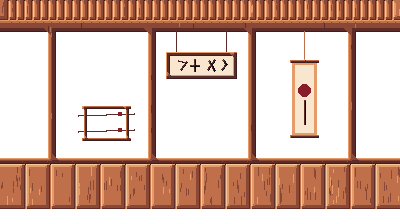
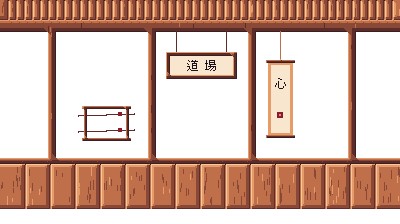
Dive into a ground-level pond from a tall last roof; dojo signs with real characters
Claude-Session: https://claude.ai/code/session_0114fZk9r84XsbnoNJLbsP6i

Changed region(s): [[0.66, 0.25, 0.81, 0.625], [0.45, 0.25, 0.57, 0.3125]]

diff --git a/index.html b/index.html
@@ -1167,7 +1167,7 @@ kbd { font-family: var(--body); background: var(--panel); padding: 1px 6px; bord
       { k: 'dummy', x: 600, w: 60, h: 110 }, { k: 'dummy', x: 880, w: 60, h: 110 }, { k: 'dummy', x: 1140, w: 60, h: 110 }] },
     // Everything below is a rough first pass of the remaining sections (rules are placeholders to be revised).
     { name: 'ROOFTOP CLIMB', wall: ['#181425', '#262b44', '#181425'], floor: ['#3a4466', '#262b44'], ...buildClimb(28) },
-    { name: 'LAKE DIVE', sec: 'lake-dive', scene: 'dive', hill: [[0, 420], [330, 420], [334, 0], [1600, 0]], water: { x0: 334, top: 260 }, props: [
+    { name: 'LAKE DIVE', sec: 'lake-dive', scene: 'dive', hill: [[0, 560], [330, 560], [334, 0], [1600, 0]], water: { x0: 334, top: 200 }, props: [
       { k: 'rock', x: 760, w: 150, h: 120 }, { k: 'rock', x: 1220, w: 170, h: 170 }] },
     { name: 'TOWER LIFT', sec: 'space', music: 'elevator', scene: 'lift', ride: 14, props: [
       { k: 'crate', x: 380, w: 110, h: 120, hp: 2 }, { k: 'crate', x: 800, w: 130, h: 150, hp: 3 }, { k: 'crate', x: 1220, w: 110, h: 120, hp: 2 }] },
@@ -1376,7 +1376,7 @@ kbd { font-family: var(--body); background: var(--panel); padding: 1px 6px; bord
     house: { table: [128, 64, 'table'], desk: [128, 64, 'table'], side: [64, 64, 'crate'], box: [64, 64, 'crate'], crate: [64, 64, 'crate'], tv: [128, 128, 'shelf'], wardrobe: [128, 128, 'shelf'], fridge: [64, 128, 'fridge'], bed: [192, 56, 'bed'], counter: [192, 96, 'sofa'] },
     dojo: { box: [64, 64, 'crate'], dummy: [56, 136, 'dummy'] }, bamboo: { shroom: [64, 48, 'shroom'], hedge: [160, 72, 'hedge'], pot: [64, 56, 'pot'] }, volcano: { rock: [96, 64, 'rock'], slab: [96, 0, 'slab'] }, space: { pod: [80, 112, 'pod'] }
   };
-  function fitProps(list) { for (const rm of list) { const F = !rm.climb && rm.scene !== 'lift' && FIT[rm.outdoor ? 'bamboo' : SEC_ART[rm.sec || 'house']]; if (F) for (const p of rm.props || []) { const f = F[p.k]; if (f && !p.hh) { p.w = f[0]; if (f[1]) p.h = f[1]; } } } }
+  function fitProps(list) { for (const rm of list) { if (rm.scene === 'dive') { rm.hill = [[0, 560], [330, 560], [334, 0], [1600, 0]]; rm.water = { x0: 334, top: 200 }; for (const p of rm.props || []) if (!p.plat && p.h > 88) p.h = 88; } /* the pond lies at ground level, below a tall last roof (Daniel) */ const F = !rm.climb && rm.scene !== 'lift' && FIT[rm.outdoor ? 'bamboo' : SEC_ART[rm.sec || 'house']]; if (F) for (const p of rm.props || []) { const f = F[p.k]; if (f && !p.hh) { p.w = f[0]; if (f[1]) p.h = f[1]; } } } }
   function buildRooms(seed, mode) { // (re)build the whole journey from a seed, the same on every page
     SEED = (seed >>> 0) % 1000000; MODE = mode ? 1 : 0;
     let list = [
@@ -2554,8 +2554,10 @@ kbd { font-family: var(--body); background: var(--panel); padding: 1px 6px; bord
         ctx.save(); ctx.beginPath(); ctx.rect(wt.x0, wy, W - wt.x0, H + 400); ctx.clip(); artBack('lake'); ctx.restore();
         bx(wt.x0, wy, W - wt.x0, 4, '#ffffff'); for (let x = wt.x0 + 8; x < W; x += 48) bx(x + Math.floor(now / 300 + x) % 3 * 8, wy + 8, 24, 4, '#2ce8f5');
         ctx.save(); ctx.beginPath(); ctx.rect(wt.x0, FLOOR, W - wt.x0, H); ctx.clip(); groundArt(LA, rm); ctx.restore();
-        roofArt(RA2, { x: 165, w: 340, h: 420 }, FLOOR - 420);
-        bx(250, FLOOR - 440, 84, 8, '#f77622'); bx(326, FLOOR - 440, 8, 20, '#f77622'); // the diving board
+        const rh = rampAt(100, rm); // the last building stands on the bank; the pond's surface is at ground level
+        ctx.save(); ctx.beginPath(); ctx.rect(-80, FLOOR - rh - 400, 500, rh + 400 - wt.top); ctx.clip(); roofArt(RA2, { x: 165, w: 340, h: rh }, FLOOR - rh); ctx.restore();
+        tileBlock(LA, -960, wy, wt.x0 + 960, FLOOR - wy + 128);
+        bx(250, FLOOR - rh - 20, 84, 8, '#f77622'); bx(326, FLOOR - rh - 20, 8, 20, '#f77622'); // the diving board
       } else if (sc === 'dive') {
         const wt = rm.water, wy = FLOOR - wt.top;
         bx(wt.x0, wy, W - wt.x0, H - wy, '#124e89'); bx(wt.x0, wy + 150, W - wt.x0, H, '#262b44');
@@ -2564,7 +2566,7 @@ kbd { font-family: var(--body); background: var(--panel); padding: 1px 6px; bord
         bx(wt.x0, FLOOR, W - wt.x0, H - FLOOR, '#3a4466'); bx(wt.x0, FLOOR, W - wt.x0, 4, '#5a6988');
         bx(0, FLOOR - 420, 334, H, '#262b44'); bx(0, FLOOR - 420, 8, H, '#3a4466'); bx(-4, FLOOR - 420, 342, 8, '#8b9bb4'); bx(8, FLOOR - 400, 318, 4, '#2ce8f5'); bx(8, FLOOR - 396, 318, 4, '#0099db');
         for (let y = FLOOR - 372, r = 0; y < H; y += 28, r++) for (let x = 24, q = 0; x < 310; x += 24, q++) bx(x, y, 12, 16, rnd(q * 7 + r * 13) < 0.14 ? '#fee761' : rnd(q + r * 5) < 0.4 ? '#3a4466' : '#181425');
-        bx(250, FLOOR - 440, 84, 8, '#f77622'); bx(326, FLOOR - 440, 8, 20, '#f77622'); // the diving board
+        bx(250, FLOOR - 440, 84, 8, '#f77622'); bx(326, FLOOR - 440, 8, 20, '#f77622'); // the diving board (old look)
       }
     } else if (sc === 'lake') { // under water: lighter near the surface, light shafts, bubbles, weeds on the bed
       const wy = FLOOR - rm.water.top;

diff --git a/CLAUDE.md b/CLAUDE.md
@@ -190,7 +190,9 @@ A pixel-art party game in a single file, `index.html`, hosted on GitHub Pages
   snow, lift progress) and is called from `drawScene` and `drawRoom`; `artProp(p)` draws props from sprites or tiles (`tileRow` for
   one-way platforms, `tileBlock` for solid blocks) and returns false for kinds it does not cover, which then use the old `drawProp`.
   `FIT` + `fitProps` (run in `buildRooms`, before the rooms are used) resize props to their sprite so what is drawn is what blocks.
-  The lake shows the rooftop night sky above the surface; the dive room is a brick roof over the lake set. `drawClimb` uses the climb
+  The lake shows the rooftop night sky above the surface; the dive room is a brick roof over the lake set. Daniel (2026-11-15): water never rises up a
+  building; the dive is a jump from the last roof (560 high) into a pond whose surface is at ground level (200 above its bed), with the
+  building standing on a bank. `fitProps` sets that hill and water on the dive room in both map modes. `drawClimb` uses the climb
   sprites (`CA`): wall bays and openings, floor slabs, pillars, stair steps. The house draws only `bg_sky` + `bg_far` (its painted furniture sits in `bg_mid`, which the game skips, because anything that
   looks like an object must be one).
   A set's `V` lists layers with a second look (`<name>_b.png`: house `bg_far_b` kitchen wall, dojo `bg_mid_b`), used on odd screens.
